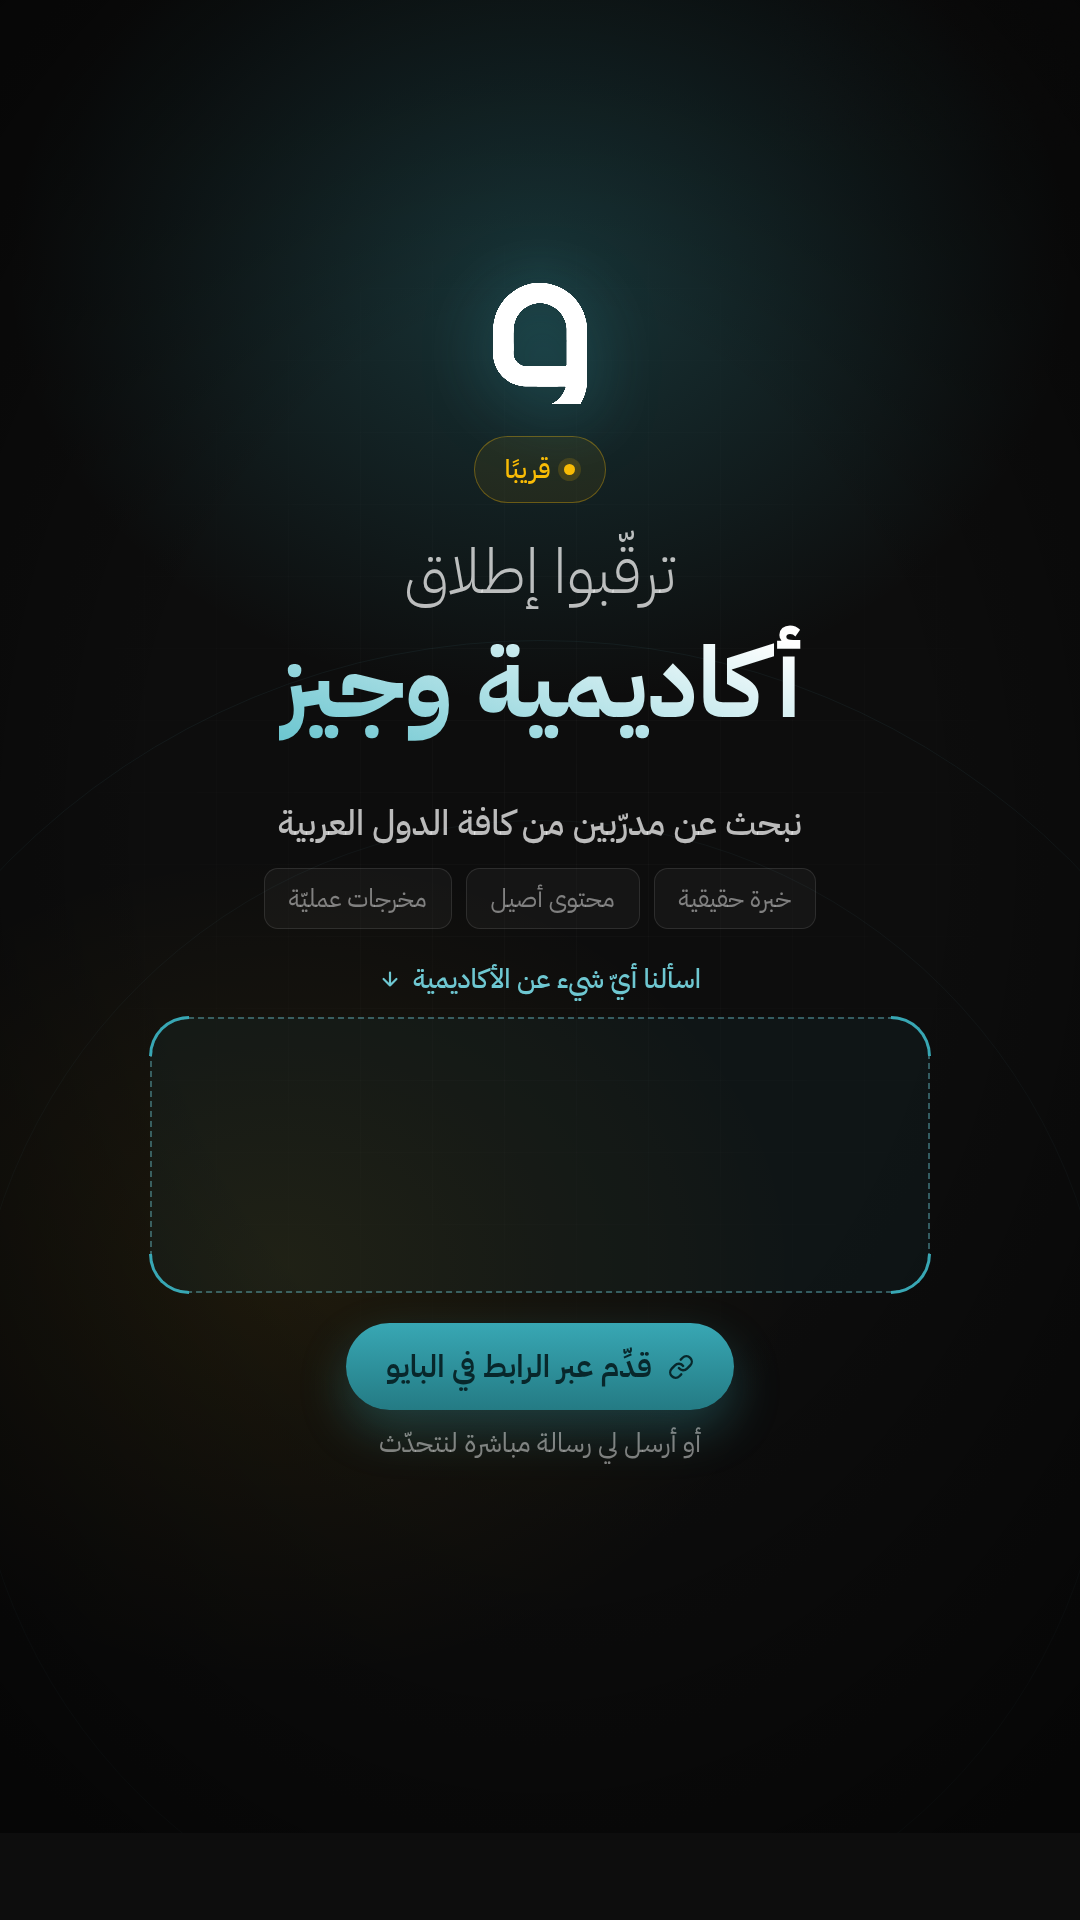
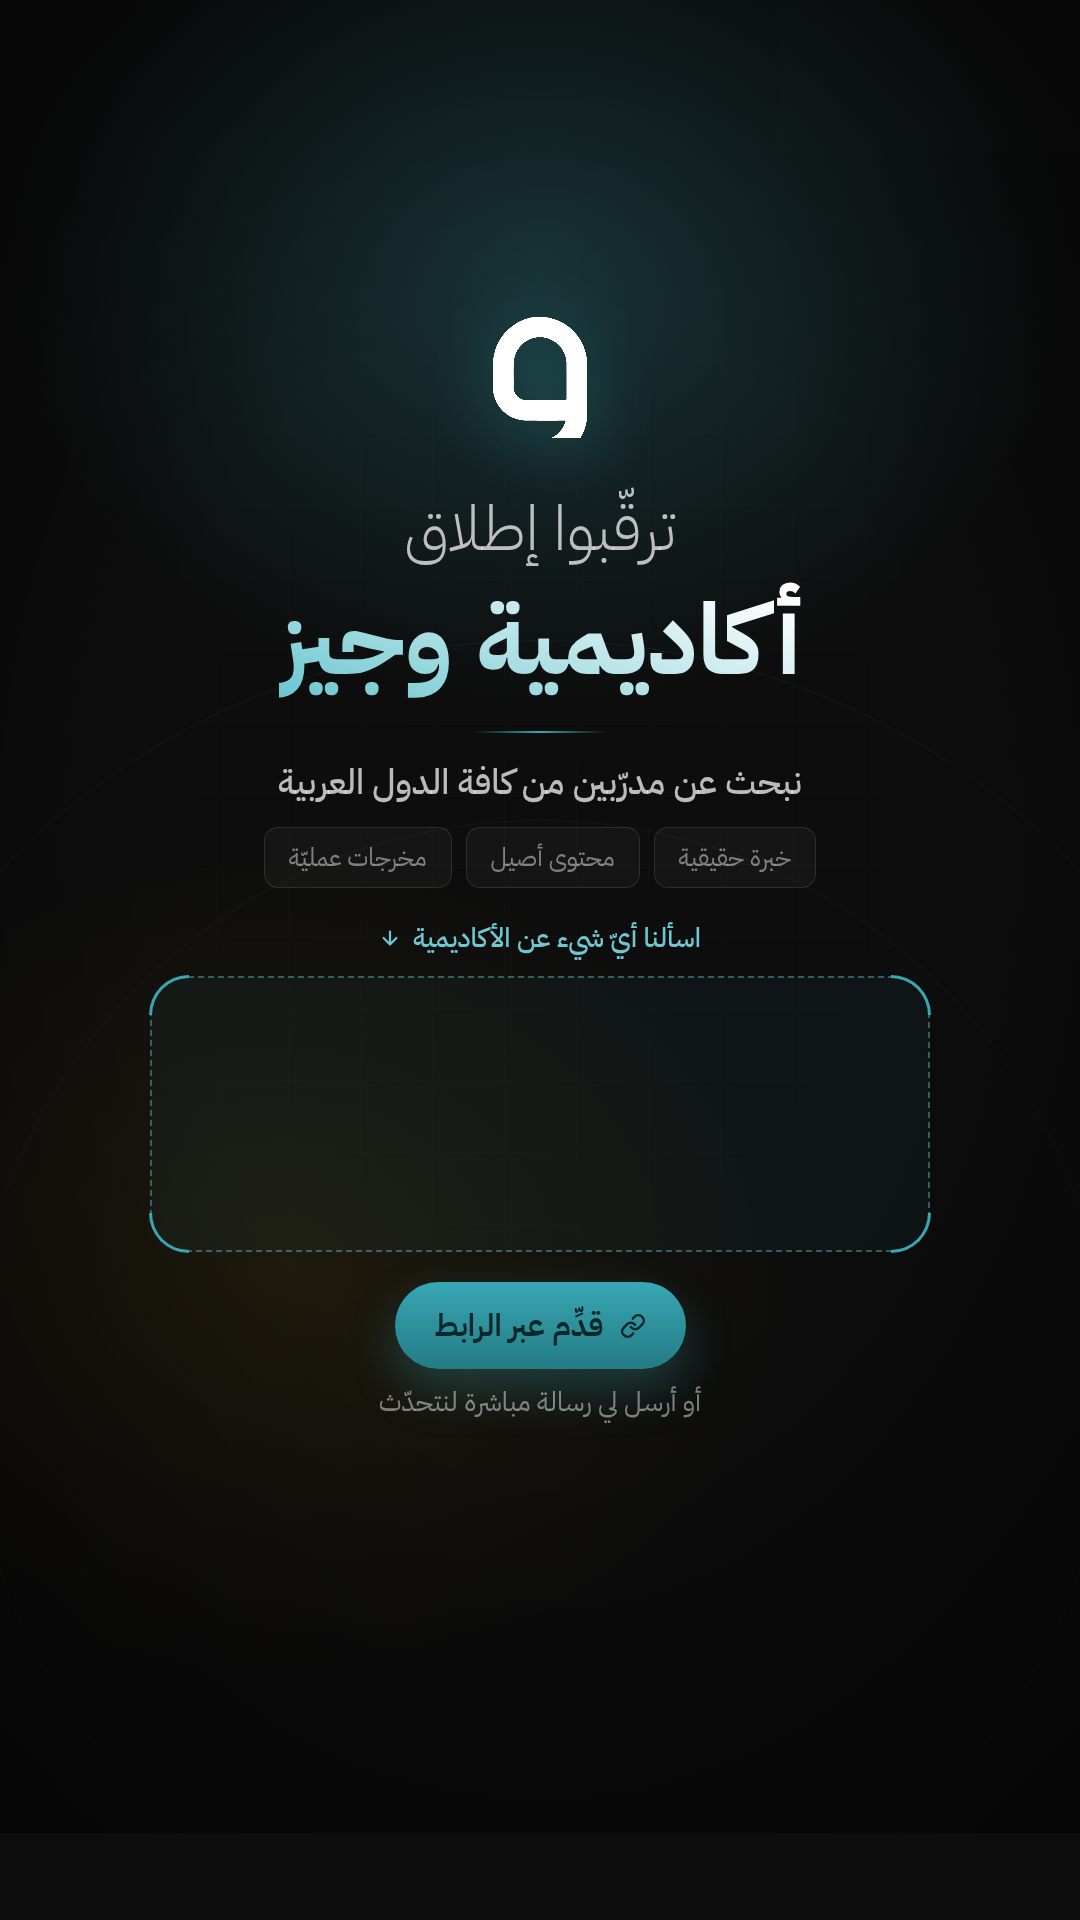
رفعُ شارة «قريبًا» و«في البايو» من الدعوة
ملاحظتان من صاحب المنصّة:

① **«في البايو» تُحذف**: صارت الدعوةُ «قدِّم عبر الرابط» — والرابطُ يُعرف
   موضعُه من المنشور، فلا يُسمّى في الصورة.

② **و«قريبًا» تُلغى**: وكانت كلَّ ما في الشارة، فرُفعت الشارةُ بتمامها لا
   كلمتُها وحدَها — ولا يُترك قرصٌ فارغ. وذهب معها الرمزُ `--gold`: لم يكن
   له مستعمِلٌ سواها (و`--glow-gold` توهّجُ الخلفيّة رمزٌ آخرُ قائمٌ بذاته).

وأُعيدت الموازنةُ الرأسيّة بعد رفع الشارة: فجوةُ العلامة إلى العنوان ٤٦
بكسلا بدل ٢٨، والحشوُ العلويُّ ٢٩٦ بدل ٢٦٢. والمتنُ بين ٢٩٦ و١٤١٠ — داخلَ
المنطقة الآمنة في ريلز. و`npm run verify` خضراءُ كاملةً.

Claude-Session: https://claude.ai/code/session_01TN6Y5v5SUngx2MMrNgqUBU

Changed region(s): [[0.2444, 0.125, 0.7639, 0.5312], [0.3056, 0.6562, 0.7028, 0.7812]]

diff --git a/docs/brand/تصميم-ترقبوا-إطلاق-الأكاديمية.html b/docs/brand/تصميم-ترقبوا-إطلاق-الأكاديمية.html
@@ -46,7 +46,6 @@
     --teal:#38A7B4;
     --teal-light:#6EC7D1;
     --teal-deep:#247B84;
-    --gold:#FABC05;
     --ink:#FFFFFF;
     --ink-soft:rgba(255,255,255,.72);
     --ink-faint:rgba(255,255,255,.46);
@@ -67,7 +66,6 @@
     --glow-gold:rgba(250,188,5,.095);
     --grid:rgba(14,34,37,.030);
     --teal-light:#1A5C64;
-    --gold:#8A6A00;
     --box-fill:rgba(56,167,180,.07);
     --box-line:rgba(36,123,132,.42);
   }
@@ -115,7 +113,7 @@
   .stage{
     position:relative;z-index:2;
     height:100%;
-    padding:262px 96px 492px;
+    padding:296px 96px 492px;
     display:flex;flex-direction:column;align-items:center;
     text-align:center;
   }
@@ -136,19 +134,7 @@
   :root[data-theme="light"] .mark{filter:drop-shadow(0 12px 30px rgba(36,123,132,.18))}
   :root[data-theme="light"] .mark img{filter:url(#ink-on-light)}
 
-  .eyebrow{
-    margin-top:28px;
-    display:inline-flex;align-items:center;gap:14px;
-    padding:13px 30px;border-radius:999px;
-    border:1px solid rgba(250,188,5,.34);
-    background:rgba(250,188,5,.07);
-    color:var(--gold);
-    font-size:26px;font-weight:500;letter-spacing:.02em;
-  }
-  .eyebrow .dot{width:11px;height:11px;border-radius:50%;background:var(--gold);
-                box-shadow:0 0 0 6px rgba(250,188,5,.16)}
-
-  .title{margin-top:28px;line-height:1}
+  .title{margin-top:46px;line-height:1}
   .title .t1{
     display:block;font-size:62px;font-weight:300;
     color:var(--ink-soft);letter-spacing:.01em;line-height:1.34;
@@ -247,8 +233,6 @@
   <div class="stage">
     <span class="mark"><img src="../../public/logo-mark.png" alt="وجيز" /></span>
 
-    <div class="eyebrow"><span class="dot"></span>قريبًا</div>
-
     <h1 class="title">
       <span class="t1">ترقّبوا إطلاق</span>
       <span class="t2">أكاديمية وجيز</span>
@@ -285,7 +269,7 @@
           <path d="M10 13a5 5 0 0 0 7.54.54l3-3a5 5 0 0 0-7.07-7.07l-1.72 1.71"/>
           <path d="M14 11a5 5 0 0 0-7.54-.54l-3 3a5 5 0 0 0 7.07 7.07l1.71-1.71"/>
         </svg>
-        قدِّم عبر الرابط في البايو
+        قدِّم عبر الرابط
       </div>
       <div class="cta-note">أو أرسل لي رسالة مباشرة لنتحدّث</div>
     </div>
